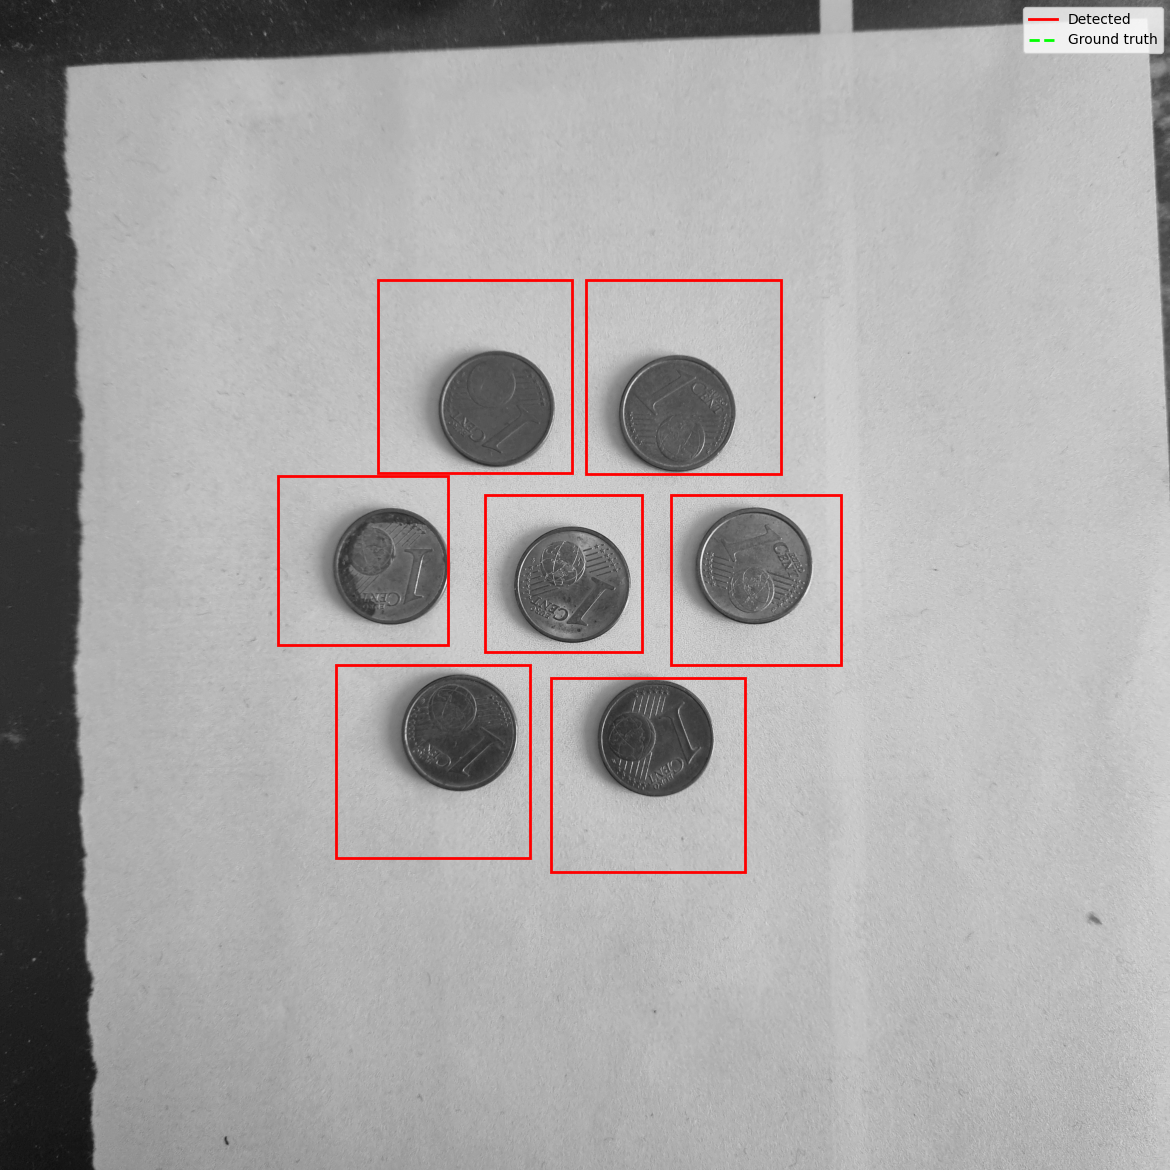
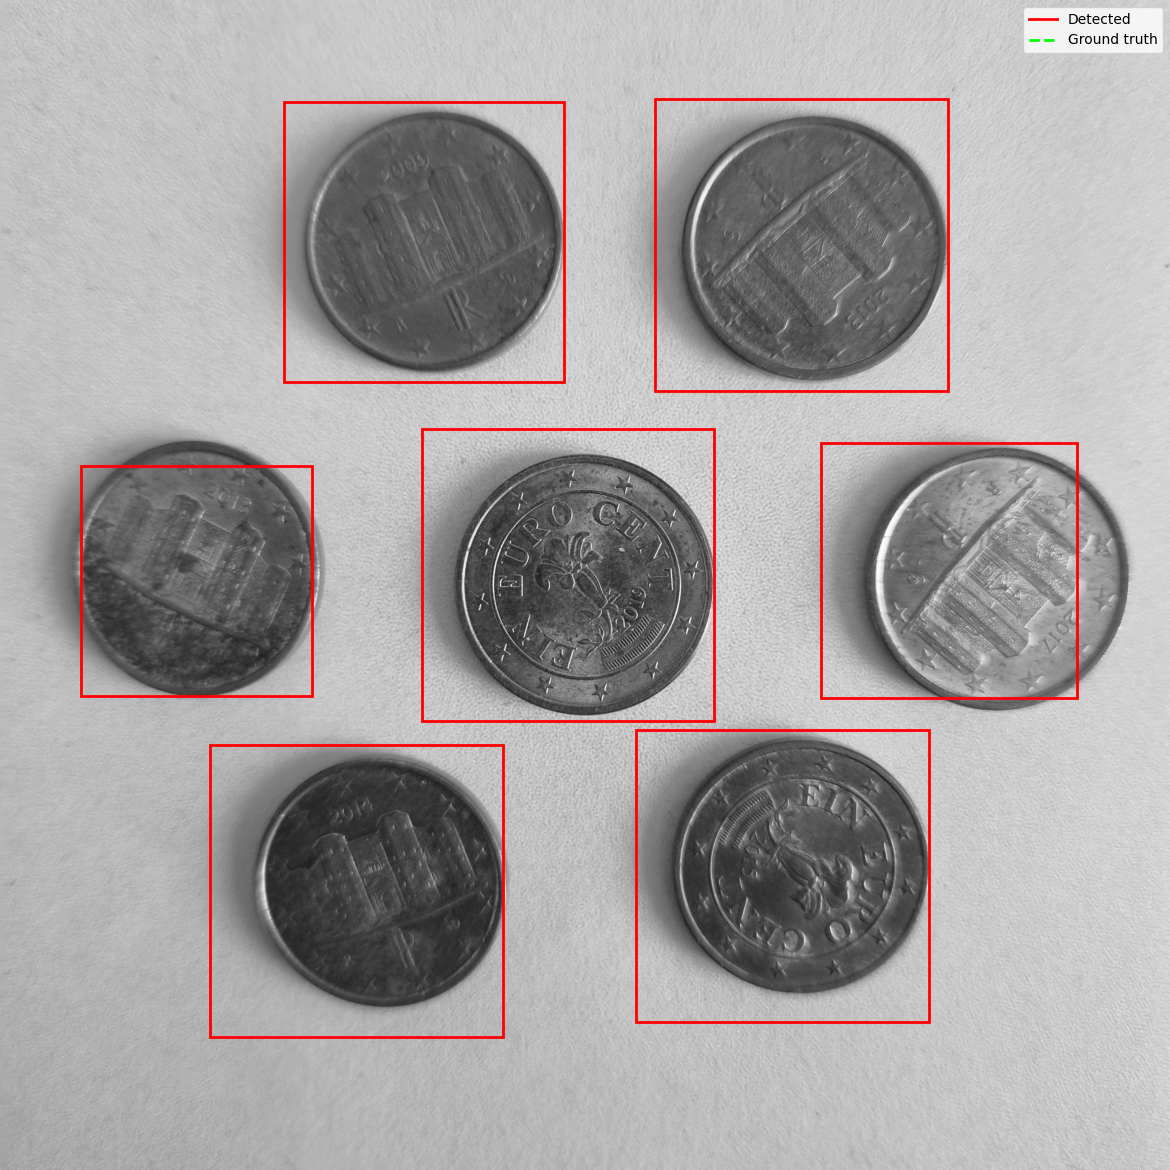
Changed compare for new detect, also update notebook to show frequency peaks

diff --git a/compare_batch_fixed.py b/compare_batch_fixed.py
@@ -118,7 +118,7 @@ def rotate_template(template, angle):
     return cv.warpAffine(template, M, (new_w, new_h))
 
 
-def improved_detect(img, template):
+def improved_detect(img, img_t):
     H, W = img.shape
     scales = np.linspace(0.25, 1.25, 20)
     angles = np.arange(0, 360, 30)
@@ -136,24 +136,68 @@ def improved_detect(img, template):
     img_float = img.astype(np.float32)
 
     for scale in sorted(scales, reverse=True):
-        new_h = max(1, int(template.shape[0] * scale))
-        new_w = max(1, int(template.shape[1] * scale))
-        tmpl_scaled = apply_circular_mask(cv.resize(template, (new_w, new_h)))
+        new_h = max(1, int(img_t.shape[0] * scale))
+        new_w = max(1, int(img_t.shape[1] * scale))
+        tmpl_scaled = apply_circular_mask(cv.resize(img_t, (new_w, new_h)))
+        h_t, w_t = tmpl_scaled.shape  # unrotated template size — defines our coordinate system
+
+        if h_t > H or w_t > W:
+            continue
+
+        # Output map aligned to unrotated-template coordinates.
+        # Position (r, c) here means "unrotated template top-left at image (r, c)".
+        H_out = H - h_t + 1
+        W_out = W - w_t + 1
+        best_corr = np.full((H_out, W_out), -np.inf, dtype=np.float32)
 
         for angle in angles:
             tmpl = rotate_template(tmpl_scaled, angle)
-            h_t, w_t = tmpl.shape
-            if h_t > H or w_t > W:
+            th_r, tw_r = tmpl.shape  # rotated size — larger than (h_t, w_t)
+            if th_r > H or tw_r > W:
                 continue
 
             corr = cv.matchTemplate(img_float, tmpl, cv.TM_CCOEFF_NORMED)
-            inverted = -corr
-            min_dist = max(10, min(h_t, w_t) // 3)
-            peaks = peak_local_max(inverted, min_distance=min_dist, threshold_abs=0.65)
+            corr = -corr
+            # corr[r, c] = score when rotated template's top-left is at image (r, c).
+            # The original object's center is at (r + th_r//2, c + tw_r//2).
+            # In unrotated coords, top-left = center - (h_t//2, w_t//2)
+            #   => unrotated row = r + (th_r - h_t) // 2
+            #   => unrotated col = c + (tw_r - w_t) // 2
+            row_off = (th_r - h_t) // 2
+            col_off = (tw_r - w_t) // 2
 
-            for (row, col) in sorted(peaks, key=lambda p: inverted[p[0], p[1]], reverse=True):
-                if not center_inside_confirmed(row, col, h_t, w_t):
-                    confirmed.append((row, col, h_t, w_t, inverted[row, col]))
+            # Destination region in best_corr
+            r0 = row_off
+            c0 = col_off
+            r1 = r0 + corr.shape[0]
+            c1 = c0 + corr.shape[1]
+
+            # Clip to output map bounds
+            r0c, c0c = max(0, r0), max(0, c0)
+            r1c, c1c = min(H_out, r1), min(W_out, c1)
+
+            # Corresponding source region in corr
+            cr0 = r0c - r0
+            cc0 = c0c - c0
+            cr1 = cr0 + (r1c - r0c)
+            cc1 = cc0 + (c1c - c0c)
+
+            if r1c > r0c and c1c > c0c:
+                best_corr[r0c:r1c, c0c:c1c] = np.maximum(
+                    best_corr[r0c:r1c, c0c:c1c],
+                    corr[cr0:cr1, cc0:cc1]
+                )
+
+        # Mask out -inf padding before peak detection
+        valid = best_corr > -np.inf
+        best_corr[~valid] = 0.0
+
+        min_dist = max(10, min(h_t, w_t) // 3)
+        peaks = peak_local_max(best_corr, min_distance=min_dist, threshold_abs=0.5)
+
+        for (row, col) in sorted(peaks, key=lambda p: best_corr[p[0], p[1]], reverse=True):
+            if not center_inside_confirmed(row, col, h_t, w_t):
+                confirmed.append((row, col, h_t, w_t, best_corr[row, col]))
 
     return [(d[0], d[1], d[2], d[3]) for d in confirmed]
 

diff --git a/Detect.py b/Detect.py
@@ -160,9 +160,9 @@ def draw_detections(image, detections, ground_truth=None,
 # img_t = cv.imread('template.jpg', 0)
 # img   = cv.imread('lemons.jpg', 0)
 
-img = cv.imread('coins-1/20210324_151127.jpg', 0)
+img = cv.imread('coins-1/20210324_151141.jpg', 0)
 img_t = cv.imread('cointemp.jpg', 0)
-gt    = load_ground_truth('coins-1/20210324_151127.xml')
+gt    = load_ground_truth('coins-1/20210324_151141.xml')
 
 H, W = img.shape
 
@@ -265,7 +265,7 @@ metrics   = evaluate(det_boxes, gt, IOU_THRESHOLD)
 print(f"\nDetected: {len(final_detections)}   Ground truth: {len(gt)}")
 print(f"TP={metrics['TP']}  FP={metrics['FP']}  FN={metrics['FN']}")
 print(f"Precision={metrics['precision']:.2f}  Recall={metrics['recall']:.2f}  F1={metrics['f1']:.2f}")
-print(f"\nPer-detection best IoU: {[round(v,2) for v in metrics['per_det_iou']]}")
+print(f"\nPer-detection best IoU: {[round(float(v),2) for v in metrics['per_det_iou']]}")
 
 # Draw
-# draw_detections(img, det_boxes, [])
+draw_detections(img, det_boxes, [])